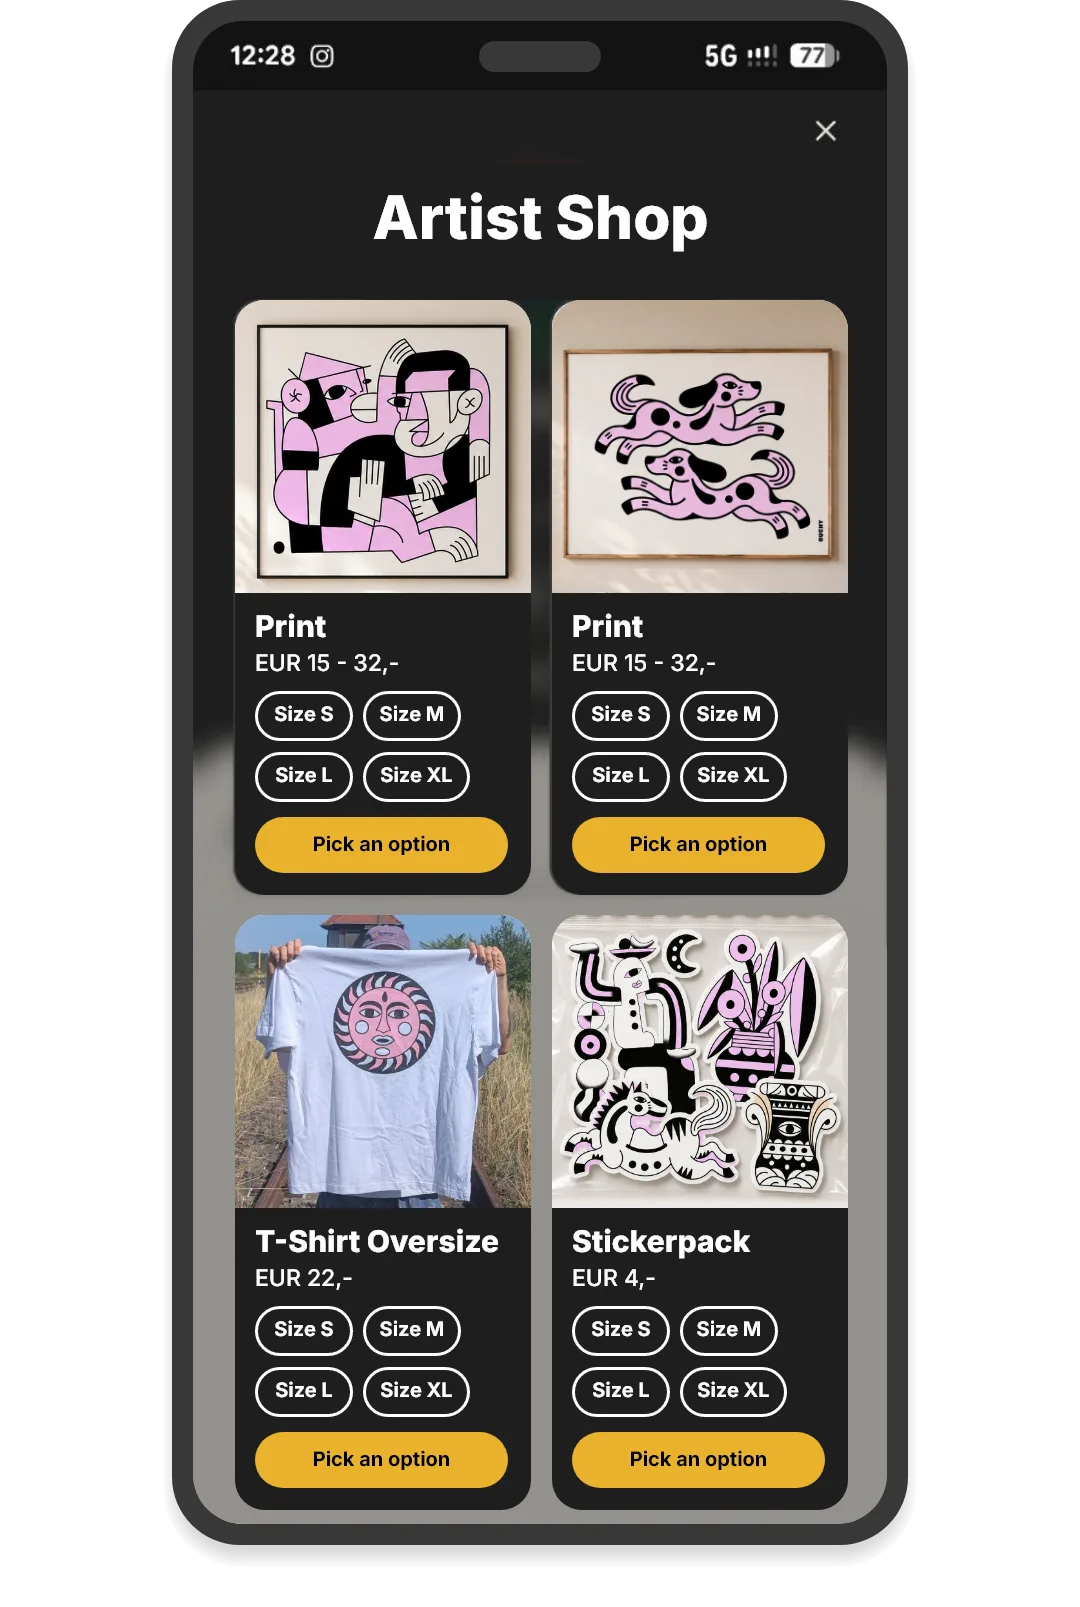
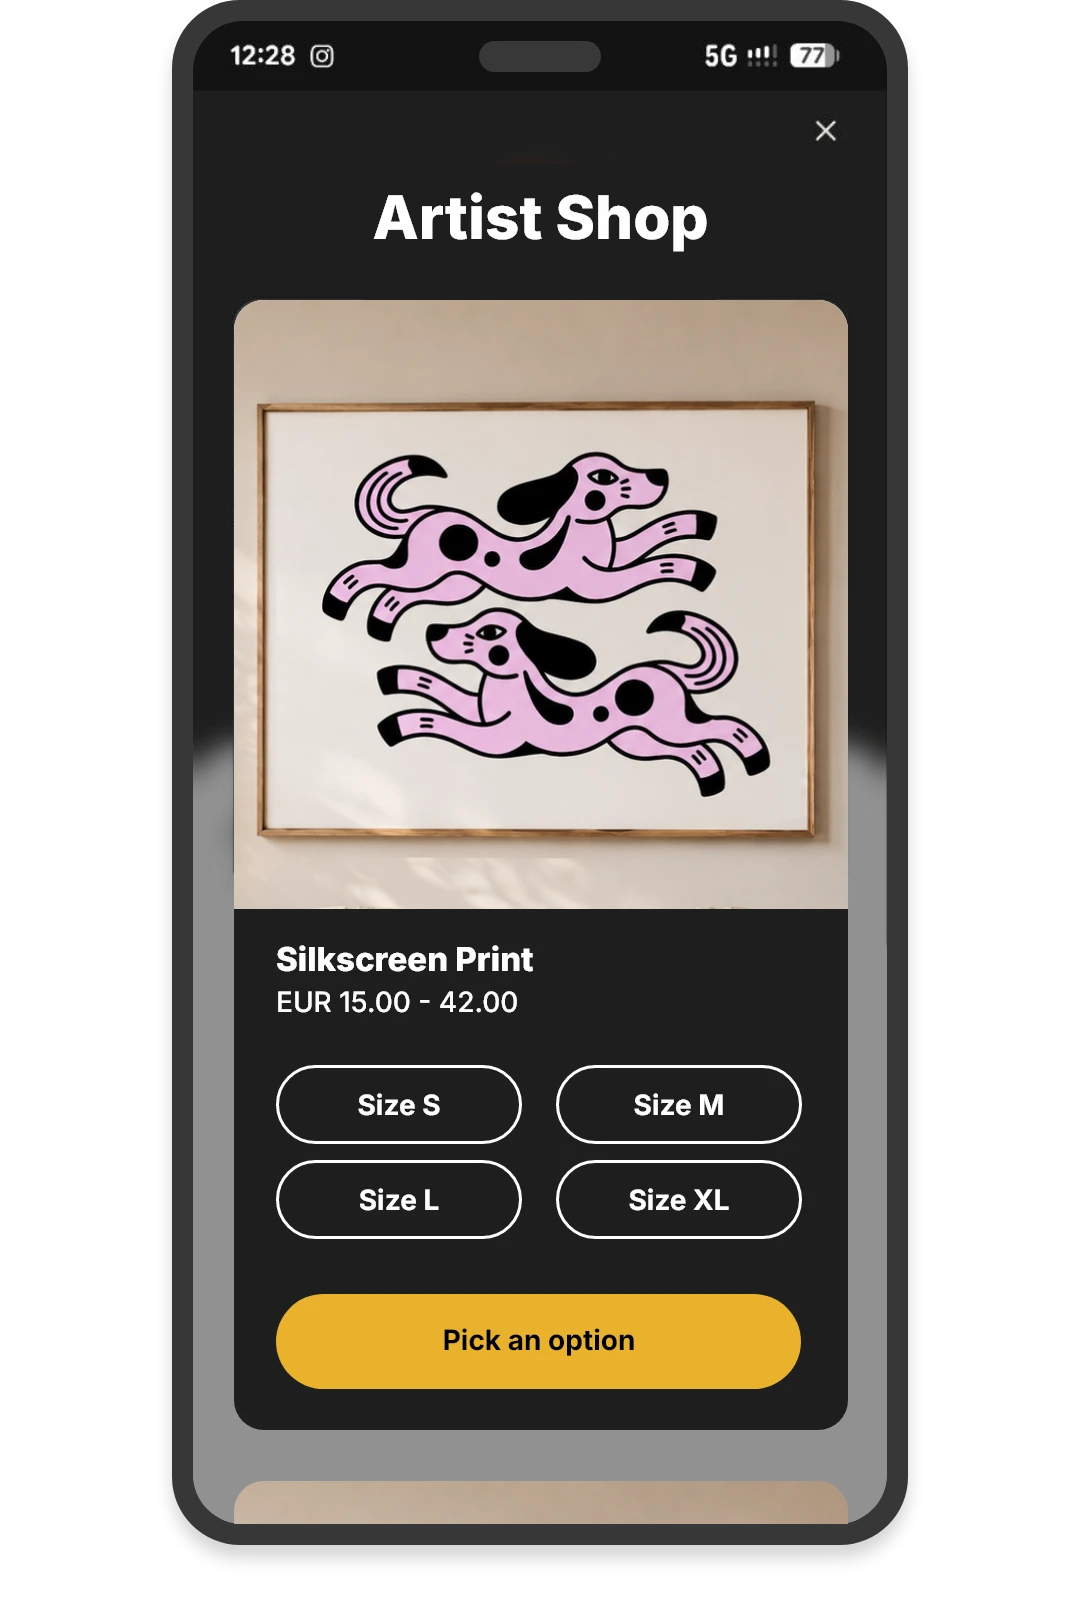
feat(download): founder polish pass on spacing, copy, and visuals
Desktop hero mockup 10% smaller with less top padding; the hero now hugs
content on desktop so the features section starts sooner. Feature-card
bodies trimmed (keyword phrases kept). Steps key visual swapped to the
reaper spiderweb illustration and the 01/02/03 step numbers recolored
from charcoal/12 (invisible on the dark rendering) to mustard. Artist
shop gallery mockup replaced with the silkscreen-print product-detail
shot, alpha-extracted to transparent WebP via the reusable
.scratch/make-app-mockup-webp.cjs recipe. "Built by a tattoo artist"
eyebrow is now "Built by an artist".

Claude-Session: https://claude.ai/code/session_017zzcrt9SweA8zrM5DptZty

diff --git a/apps/web/src/app/download/page.tsx b/apps/web/src/app/download/page.tsx
@@ -285,7 +285,7 @@ function StepRow({
   return (
     <div className="space-y-3">
       <span
-        className="text-7xl font-black leading-none tracking-tight text-brand-charcoal/12"
+        className="text-7xl font-black leading-none tracking-tight text-brand-mustard"
         aria-hidden="true"
       >
         {number}
@@ -320,7 +320,7 @@ const APP_SCREENS: {
   },
   {
     src: "/branding/app/app-artist-shop.webp",
-    alt: "Artist shop screen in the Inklee app showing prints, an oversize t-shirt, and a sticker pack",
+    alt: "Artist shop screen in the Inklee app showing a silkscreen print with size options and prices",
     title: "Your shop, in your pocket",
     body: "Showcase prints, merch, and flash with prices and sizes on your public page.",
   },
@@ -453,10 +453,10 @@ export default function DownloadPage() {
       <main className="flex-1">
         {/* ── Hero (bone) ──────────────────────────────────────────────────
             Bone bg explicit (so the section is unambiguous even if a
-            future global change shifts the default). Vertically centered
-            inside the viewport so content doesn't crowd the nav, with
-            generous top padding to clear the two floating nav pills. */}
-        <section className="relative flex min-h-[calc(100svh-80px)] items-center overflow-hidden bg-background pb-16 pt-24 md:pb-24 md:pt-28">
+            future global change shifts the default). Mobile keeps the
+            viewport-centered layout; desktop hugs the content so the hero
+            sits higher and the features section starts sooner. */}
+        <section className="relative flex min-h-[calc(100svh-80px)] items-center overflow-hidden bg-background pb-16 pt-24 md:min-h-0 md:pb-14 md:pt-20">
           <div className="container-marketing w-full">
             <div className="grid grid-cols-1 items-center gap-10 md:grid-cols-[7fr_5fr] md:gap-12">
               <div>
@@ -502,7 +502,7 @@ export default function DownloadPage() {
                   fetchPriority="high"
                   decoding="async"
                   loading="eager"
-                  className="mx-auto h-auto w-full max-w-[320px] md:max-w-[420px]"
+                  className="mx-auto h-auto w-full max-w-[320px] md:max-w-[378px]"
                   draggable={false}
                 />
               </div>
@@ -512,7 +512,7 @@ export default function DownloadPage() {
 
         {/* ── Features (charcoal) ──────────────────────────────────────── */}
         <section className="bg-shell-bg text-shell-fg">
-          <div className="container-marketing py-24 md:py-32">
+          <div className="container-marketing pb-24 pt-16 md:pb-32 md:pt-20">
             <div className="mb-12 max-w-3xl md:mb-16">
               <p className="mb-4 text-xs font-bold uppercase tracking-[0.2em] text-brand-mustard">
                 What ships with the app
@@ -533,19 +533,19 @@ export default function DownloadPage() {
               <FeatureCard
                 number="01"
                 title="Booking control, in your hand"
-                body="See incoming requests with placement, size, and references the moment they land. Accept, pass, or open and close your books with one tap. Two of your most-used screens, where your phone is."
+                body="See incoming requests with placement, size, and references the moment they land. Accept, pass, or open and close your books with one tap."
                 variant="mustard"
               />
               <FeatureCard
                 number="02"
                 title="Trip planner on the road"
-                body="Add a guest spot from the studio, set the city and dates, and your booking link updates so the next client sees where you'll be. No spreadsheets, no DMs to rewrite."
+                body="Add a guest spot, set the city and dates, and your booking link updates so clients see where you'll be next."
                 variant="bone"
               />
               <FeatureCard
                 number="03"
                 title="Flash booking organizer"
-                body="Snap a flash on the spot, add a title and price, and clients can claim it from your booking page. No more screenshots, captions, or 'DM to claim'."
+                body="Snap a flash, add a title and price, and clients can claim it straight from your booking page."
                 variant="rosa"
               />
             </div>
@@ -556,11 +556,11 @@ export default function DownloadPage() {
         <section className="bg-background">
           <div className="container-marketing py-24 md:py-32">
             <div className="mb-12 text-center md:mb-20">
-              {/* Inklee key visual — small decorative brand moment above the
-                  section heading. aria-hidden because it carries no info. */}
+              {/* Reaper spiderweb key visual — decorative brand moment above
+                  the section heading. aria-hidden because it carries no info. */}
               {/* eslint-disable-next-line @next/next/no-img-element */}
               <img
-                src="/branding/illustrations/key-visual.svg"
+                src="/branding/illustrations/reaper-spiderweb-key-visual.svg"
                 alt=""
                 aria-hidden="true"
                 className="mx-auto mb-8 w-full max-w-[280px] md:max-w-[360px]"
@@ -619,7 +619,7 @@ export default function DownloadPage() {
 
         {/* ── Mustard accent block — the one bold color section.
             Two-column on desktop: artist illustration on the left, the
-            "built by a tattoo artist" claim on the right. */}
+            "built by an artist" claim on the right. */}
         <section className="bg-brand-mustard">
           <div className="container-marketing py-16 md:py-24">
             <div className="mx-auto grid max-w-5xl grid-cols-1 items-center gap-8 md:grid-cols-[5fr_7fr] md:gap-12">
@@ -632,7 +632,7 @@ export default function DownloadPage() {
               />
               <div className="text-center md:text-left">
                 <p className="mb-4 text-xs font-bold uppercase tracking-[0.2em] text-brand-charcoal/70">
-                  Built by a tattoo artist
+                  Built by an artist
                 </p>
                 <p className="text-2xl font-black leading-tight tracking-tight text-brand-charcoal sm:text-3xl md:text-4xl lg:text-5xl">
                   Inklee was started in a studio, not a startup office. The app

diff --git a/docs/seo/seo-implementation-log.md b/docs/seo/seo-implementation-log.md
@@ -26,6 +26,24 @@ Strategic decisions belong in `inklee-seo-strategy.md`.
 
 ---
 
+### 2026-07-14 — /download founder polish pass (spacing, copy trims, visuals)
+
+**Implemented by:** Claude Code
+
+**Related strategy section:** "Mobile app" (`/download` owns mobile/app-download conversion). No keyword-ownership or metadata changes.
+
+**Files changed:** `apps/web/src/app/download/page.tsx`, `apps/web/public/branding/app/app-artist-shop.webp` (replaced), `apps/web/public/branding/illustrations/reaper-spiderweb-key-visual.svg` (new).
+
+**Implementation:** Founder-requested polish. Desktop hero mockup 10% smaller (420px → 378px) with reduced top padding; desktop hero now hugs content instead of filling the viewport, tightening the gap to the features section (features top padding also reduced). Feature-card bodies shortened (dropped trailing filler sentences; kept the keyword-bearing phrases: booking requests/books, guest spot/booking link, flash/booking page). Steps-section key visual swapped to the reaper spiderweb brand illustration. Step numbers 01/02/03 recolored from charcoal/12 (invisible on the dark rendering) to mustard. Artist-shop gallery mockup replaced with the product-detail shot (silkscreen print with sizes), converted from the founder PNG via the same flood-fill alpha extraction (reusable script now at `.scratch/make-app-mockup-webp.cjs`, 67KB WebP); alt text updated to describe the new screen. "Built by a tattoo artist" eyebrow changed to "Built by an artist" (founder wording).
+
+**Validation performed:** Playwright full-page screenshots at 1440px before/after; new WebP composited over charcoal (transparent background, baked shadow intact, no punched-out UI text); all three gallery phones verified rendering; copy checked against AGENTS.md rules (no em-dashes, sentence case, terminal punctuation). Pre-existing hydration warning confirmed present on the untouched homepage (not introduced here).
+
+**Remaining issues:** None. No new indexable pages; titles, descriptions, canonicals, and sitemap untouched.
+
+**Commit:** _(added on commit; see `feat(download): founder polish pass`)_
+
+---
+
 ### 2026-07-13 — Real app mockups on /download (hero + screens gallery)
 
 **Implemented by:** Claude Code